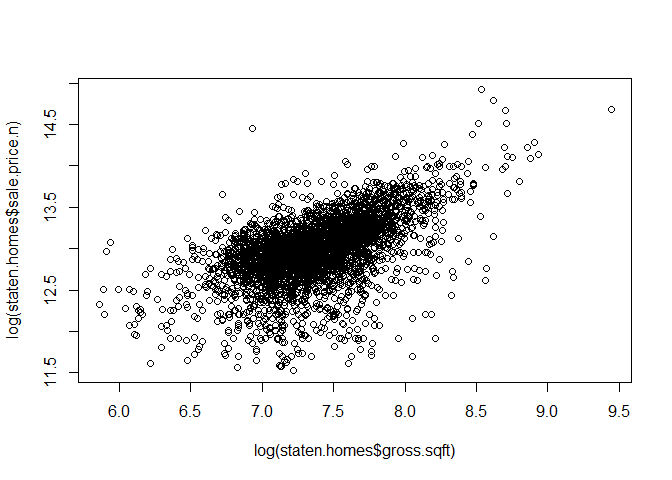
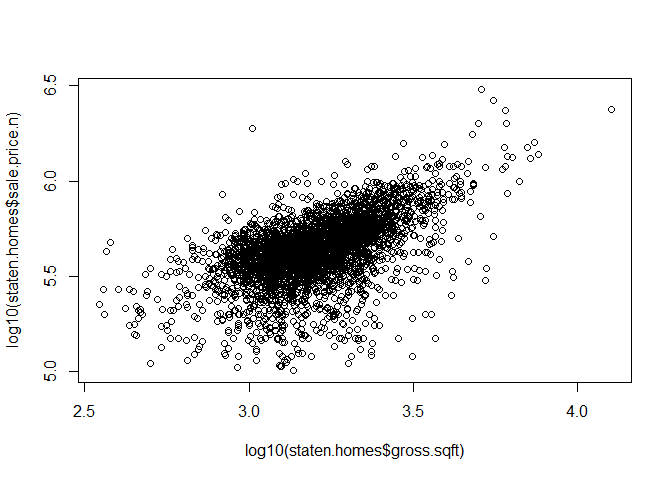
After changes to the plot function.

diff --git a/RollingSales_StatenIsland.html b/RollingSales_StatenIsland.html
@@ -382,8 +382,8 @@ staten.homes$outliers &lt;- (log10(staten.homes$sale.price.n) &lt;=5) + 0
 ## remove outliers that seem like they weren't actual sales
 staten.homes &lt;- staten.homes[which(staten.homes$outliers==0),]
 ## plot the sqft vs sales price for family dwellings above 100K
-plot(log(staten.homes$gross.sqft),log(staten.homes$sale.price.n))</code></pre>
[1 lines of base64/hex data omitted]
+plot(log10(staten.homes$gross.sqft),log10(staten.homes$sale.price.n))</code></pre>
[1 lines of base64/hex data omitted]
 <pre class="r"><code>##Histogram to analyse the sales price for family dwellings after removing outliers 
 hist(staten.homes$sale.price.n)</code></pre>
[1 lines of base64/hex data omitted]

diff --git a/RollingSales_StatenIsland.md b/RollingSales_StatenIsland.md
@@ -322,7 +322,7 @@ staten.homes$outliers <- (log10(staten.homes$sale.price.n) <=5) + 0
 ## remove outliers that seem like they weren't actual sales
 staten.homes <- staten.homes[which(staten.homes$outliers==0),]
 ## plot the sqft vs sales price for family dwellings above 100K
-plot(log(staten.homes$gross.sqft),log(staten.homes$sale.price.n))
+plot(log10(staten.homes$gross.sqft),log10(staten.homes$sale.price.n))
 ```
 
 ![](RollingSales_StatenIsland_files/figure-html/unnamed-chunk-1-5.png)<!-- -->
